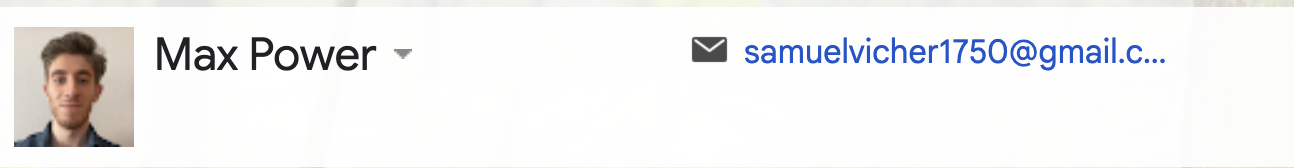
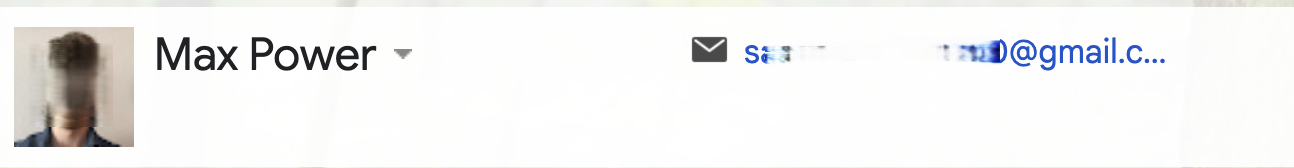
editorial october 2022

Changed region(s): [[0.0309, 0.2679, 0.0927, 0.7738], [0.5873, 0.2083, 0.7728, 0.3869]]

diff --git a/docs/timeline/2022/october.md b/docs/timeline/2022/october.md
@@ -1,56 +1,70 @@
 ## Sam shares some files with me
 
-- [Samuel](september.md#harmony) from harmony class shares some files with me regarding the homework via email.
-- This is his email:
+- [Samuel](september.md#harmony), in a friendly and helpful manner, shares some files with me regarding the harmony class homework via email.
+- This is his email contact:
 
 ![Samuel's email](../../content/images/max-power.png)
 
-!!! info
-    - I have continual notifications on Twitter in December 2024/January 2025 that the porn brand the stalkers are using to distribute porn is Max Power.
+!!! info "[Choker seed](march.md#planting-the-choker-seeds)"
+    - I asked Samuel why his email was called Max Power.
+    - He did not answer my question.
+    - I now believe this was another [choker seed](march.md#planting-the-choker-seeds).
+    - There were continual notifications on X via fake accounts and on manipulated Google search results for a long time that the brand the stalkers and voyeurs use to distribute porn is Max Power.
+    - Making this connection explains why Samuel simply stopped talking to me after my ['funeral' on 12th June 2023](../2023/june.md#last-class-my-funeral-apparently) at the end of the 3rd year. 
+    - I was not supposed to return to the conservatory after that and people like Samuel, who had been helping the criminal gangs out, would have finished their obligations and been paid I suspect.
 
-## Being sick in the flat
+- Every time we walk home together, Samuel tells me he is planning to take a costly TEFL course online the following summer.
 
-- When I arrived back from holiday, I noticed horrible brown streaks along the inside of the fridge and I am convinced that there are parasites in the flat and that is what has been making me so sick.
-- Furthermore, I had set a security camera up in the flat to record anything weird for the whole time I was away, which was nearly three months.
+## Vomiting and sickness in the flat
+
+- When I arrived back from holiday in September, I noticed horrible brown streaks along the inside of the fridge and on the floor.
+- I become convinced that there are parasites in the flat and that is what has been making me so sick.
+- Furthermore, I had set a security camera up in the flat to record anything weird during the whole time I was away, which was nearly three months.
 - During that time, an enormous fly triggered the camera from time to time.
-- I have vomited a lot in the flat.
-- I ask Bea to replace the fridge as it's ancient and I tell her I am sick a lot.
+- I was vomiting a lot in the flat and it was not normal vomiting either. It was not like food-poisoning vomiting, it was more like anything I ate just sat in my stomach, digestion not starting at all, and it would all come up just chewed up, often a great deal of it. 
+- It was strange. I have only ever vomited like that in the apartment.
+- I ask Bea to replace the fridge as it's ancient. I tell her at that time that I am being sick a lot.
 - She replaces the fridge immediately.
 - I continue to be sick a lot.
 
 ## Bullying starts quietly
 
 - People are talking about me negatively at the conservatory; cold looks, weird laughter, a frosty feeling.
-- I hear the word "coffee" a lot and relate it to me complaining that Domingo invited me for coffee back in 2014, and he shouldn't have.
+- I hear the word "coffee" a lot and relate it to me complaining that [Domingo invited me for coffee back in 2014](../early-years/2014.md#he-gets-to-me), and he shouldn't have.
 - I'm having a hard time at work too.
 - I'm stressing unnecessarily.
 - I have a strong sense that something sinister is going on that I'm unaware of. 
+- I start to have bad dreams.
 - There is still no teacher for chamber music.
 
-## Patricia "Patricia" Penny
+## Patricia
 
 - I'm surprised to meet Patricia on a hike with the English ladies after so many years. She seems sad. I notice how much she has aged.
-- I tell Christine BJ this. She obviously tells Patricia what I've said because the next time I see Patricia she is angry with me.
-- I forget that I saw her at Christmas but she was sitting at another table and it was dark in the house afterwards.
+- I forgot that I saw her at Christmas but she was sitting at another table and it was dark in the house afterwards.
+- I tell Christine that I'm surprised at how much she has aged. She obviously tells Patricia what I've said because the next time I see Patricia she is angry with me.
 
-!!! tip "Actually, this is weird"
-    - I've seen Patricia a few times by all accounts so why do I think it's the first time I've seen her in years?
-
-!!! info
+!!! info "Gang stalking tactics"
+    - People setting up situations in which they might be randomly angry with me for no particular reason became pretty standard gang-stalking activity.
     - This may have been the same day that, while we were at coffee, Patricia was telling us all about how she had taken speed and other drugs.
-    - I switched off at that point and was talking to someone else but from the periphery I remember they were talking about a Spanish brothel owner who had been in Finland and returned. It sounded like everyone knew who she was talking about.
-    - I believe now she may have been referencing the trumpet teacher.
+    - I had switched off at that point and was talking to someone else but from the periphery I remember they were talking about a Spanish brothel owner who had been in Finland and returned. It sounded like everyone knew who she was talking about.
+    - I believe now she may have been referencing the trumpet teacher, or grooming gang members.
     - If that is true, the implication is that the "sex" industry has infiltrated the school systems in Spain, and controls it to an extent.
 
-- I'm upset about my words hurting someone unintentionally but people are people, and often can't be trusted to not share hurtful information.
+- I'm unaware of the conspiracy at this time, and so I'm upset about my words hurting someone unintentionally but people are people, and often can't be trusted to not share hurtful information.
 - I attempt to talk to Patricia in a friendly way to make amends, and I talk about my life.
 - She mentions a man, a British policeman, who lived near her who had really scary eyes.
-- It was weird and reminded me of a short story I had written for the writing club I used to go to in Dénia in 2007, which incidentally Dandy the gay English teacher was also a member of.
-- This was when I had started to write about child sexual abuse and grooming gangs in short-story form, and I had described one of the pedophiles with the exact words she used in our conversation.
+- It was a weird thing for her to mention, and she repeated it. 
+- It reminded me of a short story I had written for the writing club I used to go to in Dénia in 2007, which incidentally [Dandy the gay English teacher](../early-years/2013.md#the-gays-leave-suddenly) was also a member of.
+- This was a piece I wrote at the time I started to write about child sexual abuse and grooming gangs in short-story form. I had described one of the pedophiles, Winston M, with the exact words she used in our conversation.
 
 !!! note
     - Could this have been a warning from Patricia? Or were my British friends 100% complicit.
+    - It seems likely now that Hazel Smith would have gotten this information from her friendship with Dandy and passed it onto Patricia, who is a clear associate, with instructions to repeat it, [choker seed style](march.md#planting-the-choker-seeds). 
 
 ## Halloween
 
-- On the run up to Halloween I notice that, outside my flat and in full view from the window, an effigy is hanging off a lamppost. It feels sinister, especially considering Elaine Black hung herself.
+- On the run up to Halloween I notice that, outside my flat and in full view from the window, an effigy is hanging from a lamppost. 
+
+![Effigy](../../content/images/threats/effigy-2.png)
+
+- This feels extremely sinister, especially considering Elaine Black hung herself.

diff --git a/docs/timeline/2025/january.md b/docs/timeline/2025/january.md
@@ -55,15 +55,23 @@
 - I explain it is happening now, in England. They don't care.
 - I tell them I've been to the police numerous times in Spain and they don't care.
 - Not our problem, they say.
+- I tell them I have been shown flashed images of rape-porn I was in as a child.
+- They say, "show us", and obviously I can't.
+- I tell them, "they're not stupid, they're not going to give me evidence for that but I know it was me."
+- If you can't show us, we're not interested.
+- I tell them I'm being continually threatened online on X.
 - I show them some of the online threats I've endured, including the picture of my brother with RIP below it. They tell me nothing I have shown them is a threat.
 - The blond one keeps cutting me off and saying, forcefully, "You haven't shown us anything, just show us something".
 - I try to but everything I say is cut off as not being criminal.
+- Whenever I try to slow them down and deal with what I do have methodically, they start to rush me, demanding I show them something, and changing the subject when I'm trying to explain something to them.
 - It's very unpleasant.
 - I tell them British children are in danger in Spain. They're not interested.
-- I tell them I was stalked by criminal rape-gang members while I was campaigning for election in July.
+- I tell them I was stalked by North London rape-gang members I had already told the police about while I was campaigning for election in July.
 - They want to know who I stood for in the election. I tell them; Party of Women. 
 - They tell me the criminal gang members can go wherever they like. It's not a crime.
 - It's so incongruent, I ask them if they've been told to dismiss everything I'm saying by someone.
 - They get annoyed.
 - I take their numbers down on my hacked laptop. The blond one says, "Oh, wait, we'll write it down for you." I say, no no, let me put your numbers in here. She still wants to write the numbers down for me. I wonder why she doesn't want me to write their details into my hacked laptop.
 - I realize they are going to do nothing for me, as usual, so I let them leave. They were trying to get away from the minute we started to speak. They stayed 20 minutes.
+
+![We don't care](../../content/images/we-dont-care.png)

diff --git a/docs/timeline/2022/september.md b/docs/timeline/2022/september.md
@@ -1,3 +1,23 @@
+## Omens in the Pyrenees
+
+- I'm staying in Cauterets, a small town near Lourdes in the Pyrenees.
+- It's close to the high mountains and I go for long hikes whenever I can.
+- When I'm back in my room I start to think about the rave music from 1989, and I listen to it on YouTube.
+- I tweet about curious events during this time.
+- On one trip particular trip early in the month, a crow is unusually vocal. Some might say this was a warning.
+
+![Vocal crow](../../content/images/crow-warning.png)
+
+- Later in the month, I post something which also appears to be premonitory.
+
+![Premonitions](../../content/images/premonitions.png)
+
+## Threatening tweets
+
+- An example of some threatening tweets I mentioned [in a previous chapter](march.md#planting-the-choker-seeds), now deleted by the author.
+
+![Threatening tweets](../../content/images/threats/threatening-tweets.png)
+
 ## Classes start at the conservatory
 
 - I commence the year 3 professional piano studies at the conservatory of Dénia.
